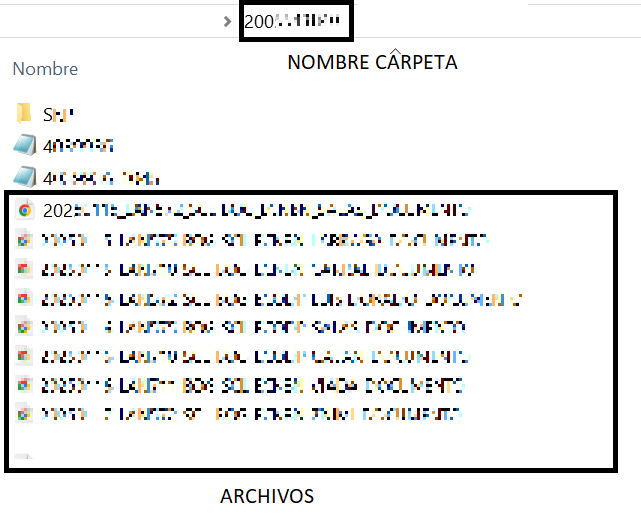
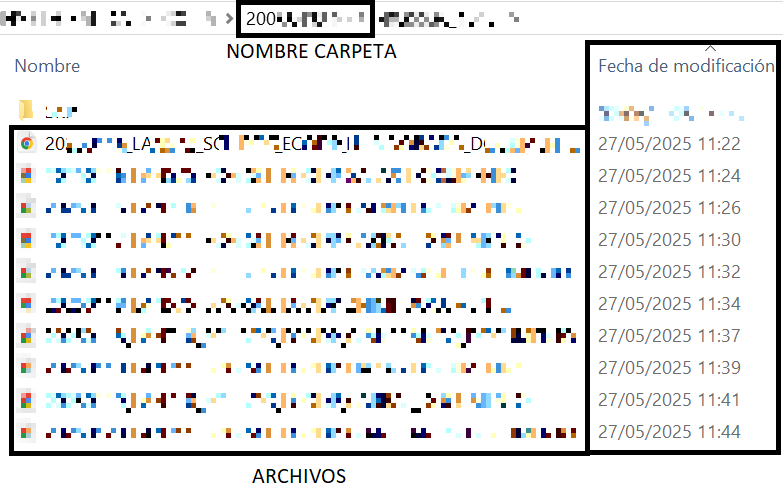
FINAL

Changed region(s): [[0.0, 0.0, 1.0, 0.996], [0.8112, 0.0, 1.0, 0.0302], [0.0, 0.1207, 0.1248, 0.1509]]

diff --git a/index.html b/index.html
@@ -7,115 +7,127 @@
   <link rel="stylesheet" href="styles.css" />
 </head>
 <body>
-  <div class="main-wrapper">
-    <div class="container">
-      <h1>Generar archivo .add.WIP </h1>
-      
-      <p class="description">
-        El siguiente ejemplo de ejecución es en base a la imagen de la derecha <br><br>
-        Los archivos PDF deben moverse a la carpeta <code>200XXXXXXX</code> como se muestra en la imagen <br>
-        Seleccionamos la carpeta donde acabamos de mover los archivos PDF cuyos nombres tienen el siguiente formato:<br>
-        <code>20XXXXXX_LXXXXX_SXX-BXX_EXXXXX_SXXXX_DXXXXXXXX.pdf</code><br><br>
-        Click en Generar Archivo y el sistema generará automáticamente un archivo <strong>.add.WIP</strong> con los datos extraídos. El archivo se guardará automaticamente en la carpeta de <strong>Descargas</strong> de allí debemos moverlo a la carpeta deseada.
-      </p>
+ <div class="main-wrapper">
+  <div class="container">
+    <h1>Generar archivo .add.WIP</h1>
+    <p class="description">
+      El siguiente ejemplo de ejecución es en base a la imagen de la derecha.<br>
+      <b>-</b> El número de la caja <code>200XXXXXXX</code> se obtiene de la ruta de los PDF.<br>
+      - Selecciona la carpeta donde tenemos los archivos PDF cuyos nombres tienen el siguiente formato:
+      <code>20XXXXXX_LXXXXX_SXX-BXX_EXXXXX_SXXXX_DXXXXXXXX.pdf</code><br>
+      - Click en Generar Archivo y el sistema generará automáticamente un archivo <strong>.add.WIP</strong> con los datos extraídos.<br>
+      - Cortar o copiar el archivo a la ruta deseada.<br><br>
+      Nota: Antes de generar el archivo asegurese que la carpeta donde están los PDF este organizada por fecha de modificación fecha/hora más antigua primero.
+    </p>
 
-      <div class="form-controls">
+    <div class="form-controls">
+      <div class="form-group">
+        <label for="nombreCarpetaInput">Ingrese el nombre de la carpeta:</label>
+        <input type="text" id="nombreCarpetaInput" placeholder="Ejemplo: 200XXXXXXX" />
+      </div>
+
+      <div class="form-group">
+        <label for="folderInput">Seleccione la carpeta:</label>
         <input type="file" id="folderInput" webkitdirectory directory multiple />
+      </div>
+
+      <div class="form-group">
         <button onclick="procesarArchivos()">Generar Archivo</button>
       </div>
     </div>
-
-    <div class="image-wrapper">
-      <img src="FICHERO.png" alt="Imagen decorativa" />
-    </div>
   </div>
 
-  <script>
+  <div class="image-wrapper">
+    <img src="FICHERO.png" alt="Imagen decorativa" />
+  </div>
+</div>
+
+
+<script>
   function procesarArchivos() {
-    const input = document.getElementById('folderInput');
-    const files = input.files;
+  const input = document.getElementById('folderInput');
+  const files = input.files;
+  const nombreCarpeta = document.getElementById('nombreCarpetaInput').value.trim();
 
-    const nombreCarpeta = prompt('Ingresa el nombre de la carpeta (ejemplo: 200XXXXXXX):');
-    if (!nombreCarpeta) {
-      alert('Debes ingresar un nombre de carpeta.');
-      return;
-    }
-
-    if (!files.length) {
-      alert('Selecciona una carpeta que contenga archivos PDF');
-      return;
-    }
-
-    const campos_fijos = {
-      campo_1: '"ME598"',
-      campo_2: '"59580"',
-      campo_3: '"595801"'
-    };
-
-    // Convertir FileList en un arreglo y ordenar por fecha de modificación
-    const archivosOrdenados = Array.from(files)
-      .filter(file => file.name.toLowerCase().endsWith('.pdf'))
-      .sort((a, b) => a.lastModified - b.lastModified);
-
-    let datos = [];
-
-    for (const file of archivosOrdenados) {
-      const nombre = file.name.replace(/\.[^/.]+$/, "");
-      const partes = nombre.split("_");
-
-      if (partes.length >= 6) {
-        const fila = [
-          campos_fijos.campo_1,
-          `"${nombreCarpeta}"`,
-          '""',
-          campos_fijos.campo_2,
-          campos_fijos.campo_3,
-          '""',
-          '""',
-          `"${partes[1]}"`,
-          `"${partes[2]}"`,
-          '""',
-          `"${partes[5]}"`,
-          '""',
-          '""',
-          '""',
-          `"${partes[3]}"`,
-          `"${partes[4]}"`,
-          '""',
-          '""',
-          '""',
-          '""'
-        ];
-        datos.push(fila.join(" "));
-      }
-    }
-
-    if (datos.length === 0) {
-      alert("No se encontraron archivos PDF válidos en la carpeta.");
-      return;
-    }
-
-    const ahora = new Date();
-    const fecha = ahora.toLocaleDateString('en-GB', { year: '2-digit', month: '2-digit', day: '2-digit' }).replace(/\//g, '');
-    const hora = ahora.toTimeString().slice(0, 8).replace(/:/g, '');
-    const nombreArchivo = `ME-ME-FILE-${fecha}_${hora}.add.WIP`;
-
-    const contenido = datos.join("\n");
-    const blob = new Blob([contenido], { type: "text/plain;charset=utf-8" });
-    const url = URL.createObjectURL(blob);
-
-    const a = document.createElement('a');
-    a.href = url;
-    a.download = nombreArchivo;
-    document.body.appendChild(a);
-    a.click();
-    document.body.removeChild(a);
-
-    // Retrasar la revocación del objeto URL para asegurar que la descarga se inicie
-    setTimeout(() => {
-      URL.revokeObjectURL(url);
-    }, 100);
+  if (!nombreCarpeta) {
+    alert('Debes ingresar un nombre de carpeta.');
+    return;
   }
+
+  if (!files.length) {
+    alert('Selecciona una carpeta que contenga archivos PDF');
+    return;
+  }
+
+  const campos_fijos = {
+    campo_1: '"ME598"',
+    campo_2: '"59580"',
+    campo_3: '"595801"'
+  };
+
+  const archivosOrdenados = Array.from(files)
+    .filter(file => file.name.toLowerCase().endsWith('.pdf'))
+    .sort((a, b) => a.lastModified - b.lastModified);
+
+  let datos = [];
+
+  for (const file of archivosOrdenados) {
+    const nombre = file.name.replace(/\.[^/.]+$/, "");
+    const partes = nombre.split("_");
+
+    if (partes.length >= 6) {
+      const fila = [
+        campos_fijos.campo_1,
+        `"${nombreCarpeta}"`,
+        '""',
+        campos_fijos.campo_2,
+        campos_fijos.campo_3,
+        '""',
+        '""',
+        `"${partes[1]}"`,
+        `"${partes[2]}"`,
+        '""',
+        `"${partes[5]}"`,
+        '""',
+        '""',
+        '""',
+        `"${partes[3]}"`,
+        `"${partes[4]}"`,
+        '""',
+        '""',
+        '""',
+        '""'
+      ];
+      datos.push(fila.join(" "));
+    }
+  }
+
+  if (datos.length === 0) {
+    alert("No se encontraron archivos PDF válidos en la carpeta.");
+    return;
+  }
+
+  const ahora = new Date();
+  const fecha = ahora.toLocaleDateString('en-GB', { year: '2-digit', month: '2-digit', day: '2-digit' }).replace(/\//g, '');
+  const hora = ahora.toTimeString().slice(0, 8).replace(/:/g, '');
+  const nombreArchivo = `ME-ME-FILE-${fecha}_${hora}.add.WIP`;
+
+  const contenido = datos.join("\n");
+  const blob = new Blob([contenido], { type: "text/plain;charset=utf-8" });
+  const url = URL.createObjectURL(blob);
+
+  const a = document.createElement('a');
+  a.href = url;
+  a.download = nombreArchivo;
+  document.body.appendChild(a);
+  a.click();
+  document.body.removeChild(a);
+
+  setTimeout(() => {
+    URL.revokeObjectURL(url);
+  }, 100);
+}
+
 </script>
 
 </body>

diff --git a/styles.css b/styles.css
@@ -1,17 +1,3 @@
-/* Reset y tipografía básica */
-* {
-  box-sizing: border-box;
-  margin: 0;
-  padding: 0;
-}
-
-body {
-  font-family: 'Segoe UI', Tahoma, Geneva, Verdana, sans-serif;
-  background: #f5f7fa;
-  color: #333;
-  padding: 2em;
-}
-
 /* Contenedor principal */
 .main-wrapper {
   display: flex;
@@ -20,6 +6,9 @@ body {
   align-items: flex-start;
   justify-content: center;
   flex-wrap: wrap;
+  padding: 2em;
+  background: #f5f7fa;
+  color: #333;
 }
 
 /* Panel principal */
@@ -28,8 +17,8 @@ body {
   border-radius: 10px;
   box-shadow: 0 6px 15px rgba(0, 0, 0, 0.1);
   padding: 2em;
+  flex: 1 1 600px;
   max-width: 600px;
-  flex: 1;
 }
 
 .container h1 {
@@ -52,25 +41,35 @@ code {
   font-family: monospace;
 }
 
-/* Controles */
+/* Controles del formulario */
 .form-controls {
   display: flex;
-  flex-direction: row;
+  flex-direction: column;
   gap: 1em;
-  align-items: center;
   margin-top: 1em;
 }
 
+.form-group {
+  display: flex;
+  flex-direction: column;
+}
 
-input[type="file"] {
-  padding: 0.3em;
+.form-group label {
+  margin-bottom: 0.5em;
+  font-weight: bold;
+  color: #2c3e50;
+}
+
+.form-group input[type="text"],
+.form-group input[type="file"] {
+  padding: 0.5em;
   font-size: 1em;
   border: 1px solid #ccc;
   border-radius: 6px;
   background-color: #fdfdfd;
 }
 
-button {
+.form-group button {
   background-color: #3498db;
   border: none;
   color: white;
@@ -81,21 +80,34 @@ button {
   transition: background-color 0.3s ease;
 }
 
-button:hover {
+.form-group button:hover {
   background-color: #2980b9;
 }
 
 /* Imagen decorativa */
 .image-wrapper {
-  max-width: 500px;
   flex: 0 0 auto;
+  max-width: 450px;
   display: flex;
-  align-items: center;
-  justify-content: center;
+  align-items: right;
+  justify-content: right;
 }
 
 .image-wrapper img {
   max-width: 100%;
   border-radius: 10px;
   box-shadow: 0 6px 15px rgba(0, 0, 0, 0.1);
+}
+
+/* Responsividad */
+@media (max-width: 768px) {
+  .main-wrapper {
+    flex-direction: column;
+    align-items: center;
+  }
+
+  .container,
+  .image-wrapper {
+    max-width: 100%;
+  }
 }

diff --git a/main.py b/main.py
@@ -22,7 +22,7 @@ def procesar_archivos(ruta, nombre_carpeta, campos_fijos):
             if len(partes) >= 6:
                 fila = [
                     campos_fijos["campo_1"],         # '"ME598"'
-                    f'"{nombre_carpeta}"',           # carpeta con comillas
+                    f'"{nombre_carpeta}"',           # este valor se mete manualmente (normalmente estos PDF se encuentran dos niveles adelante del número de la caja que necesitamos)
                     '""',
                     campos_fijos["campo_2"],         # '"59580"'
                     campos_fijos["campo_3"],         # '"595801"'

diff --git a/README.md b/README.md
@@ -1,6 +1,6 @@
 # FicheroO# CSV Filename Parser
 
-Este programa en Python permite seleccionar una carpeta, leer los nombres de archivos con estructura `20XXXXXX_LXXXXX_SXX-BXX_EXXXXX_SXXXX_DXXXXXXXX.pdf*` y exportar la información relevante del título a un archivo `.csv`.
+Este programa en Python permite seleccionar una carpeta, leer los nombres de archivos con estructura `20XXXXXX_LXXXXX_SXX-BXX_EXXXXX_SXXXX_DXXXXXXXX.pdf*` y exportar la información que se requiere y la extructura solicitada en formato`.add.WIP`.
 
 ## 📦 Requisitos
 
